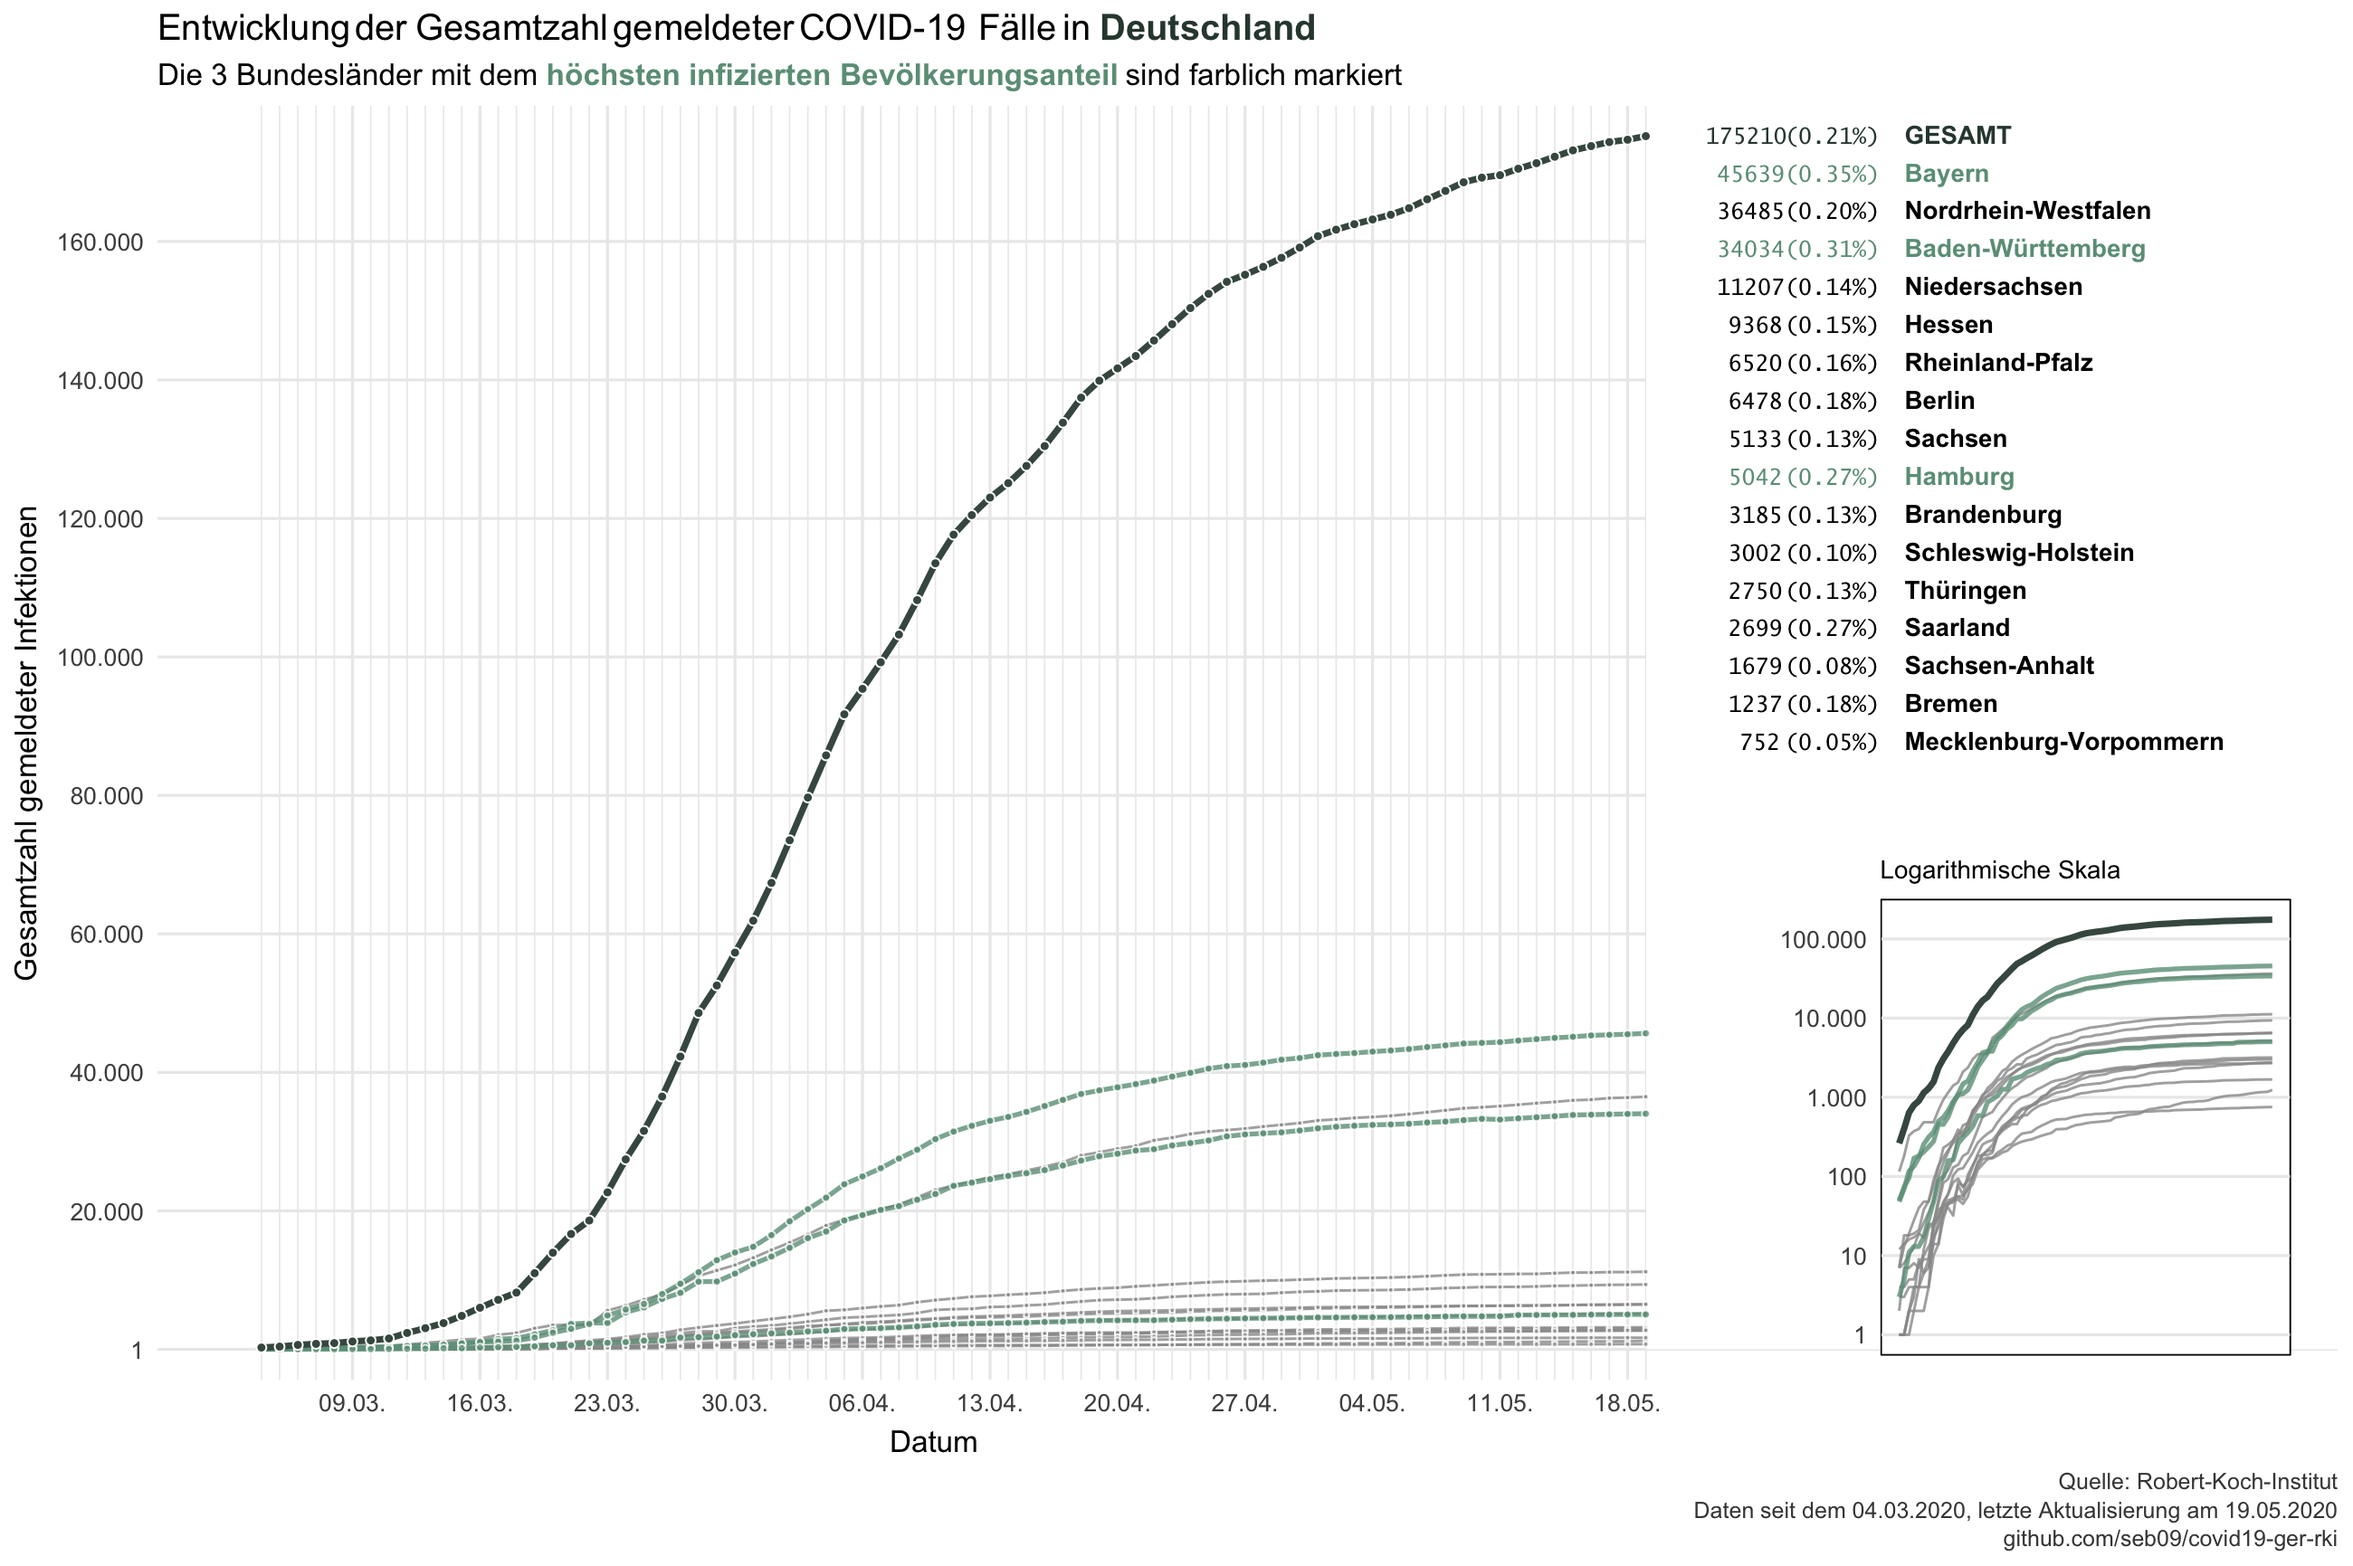
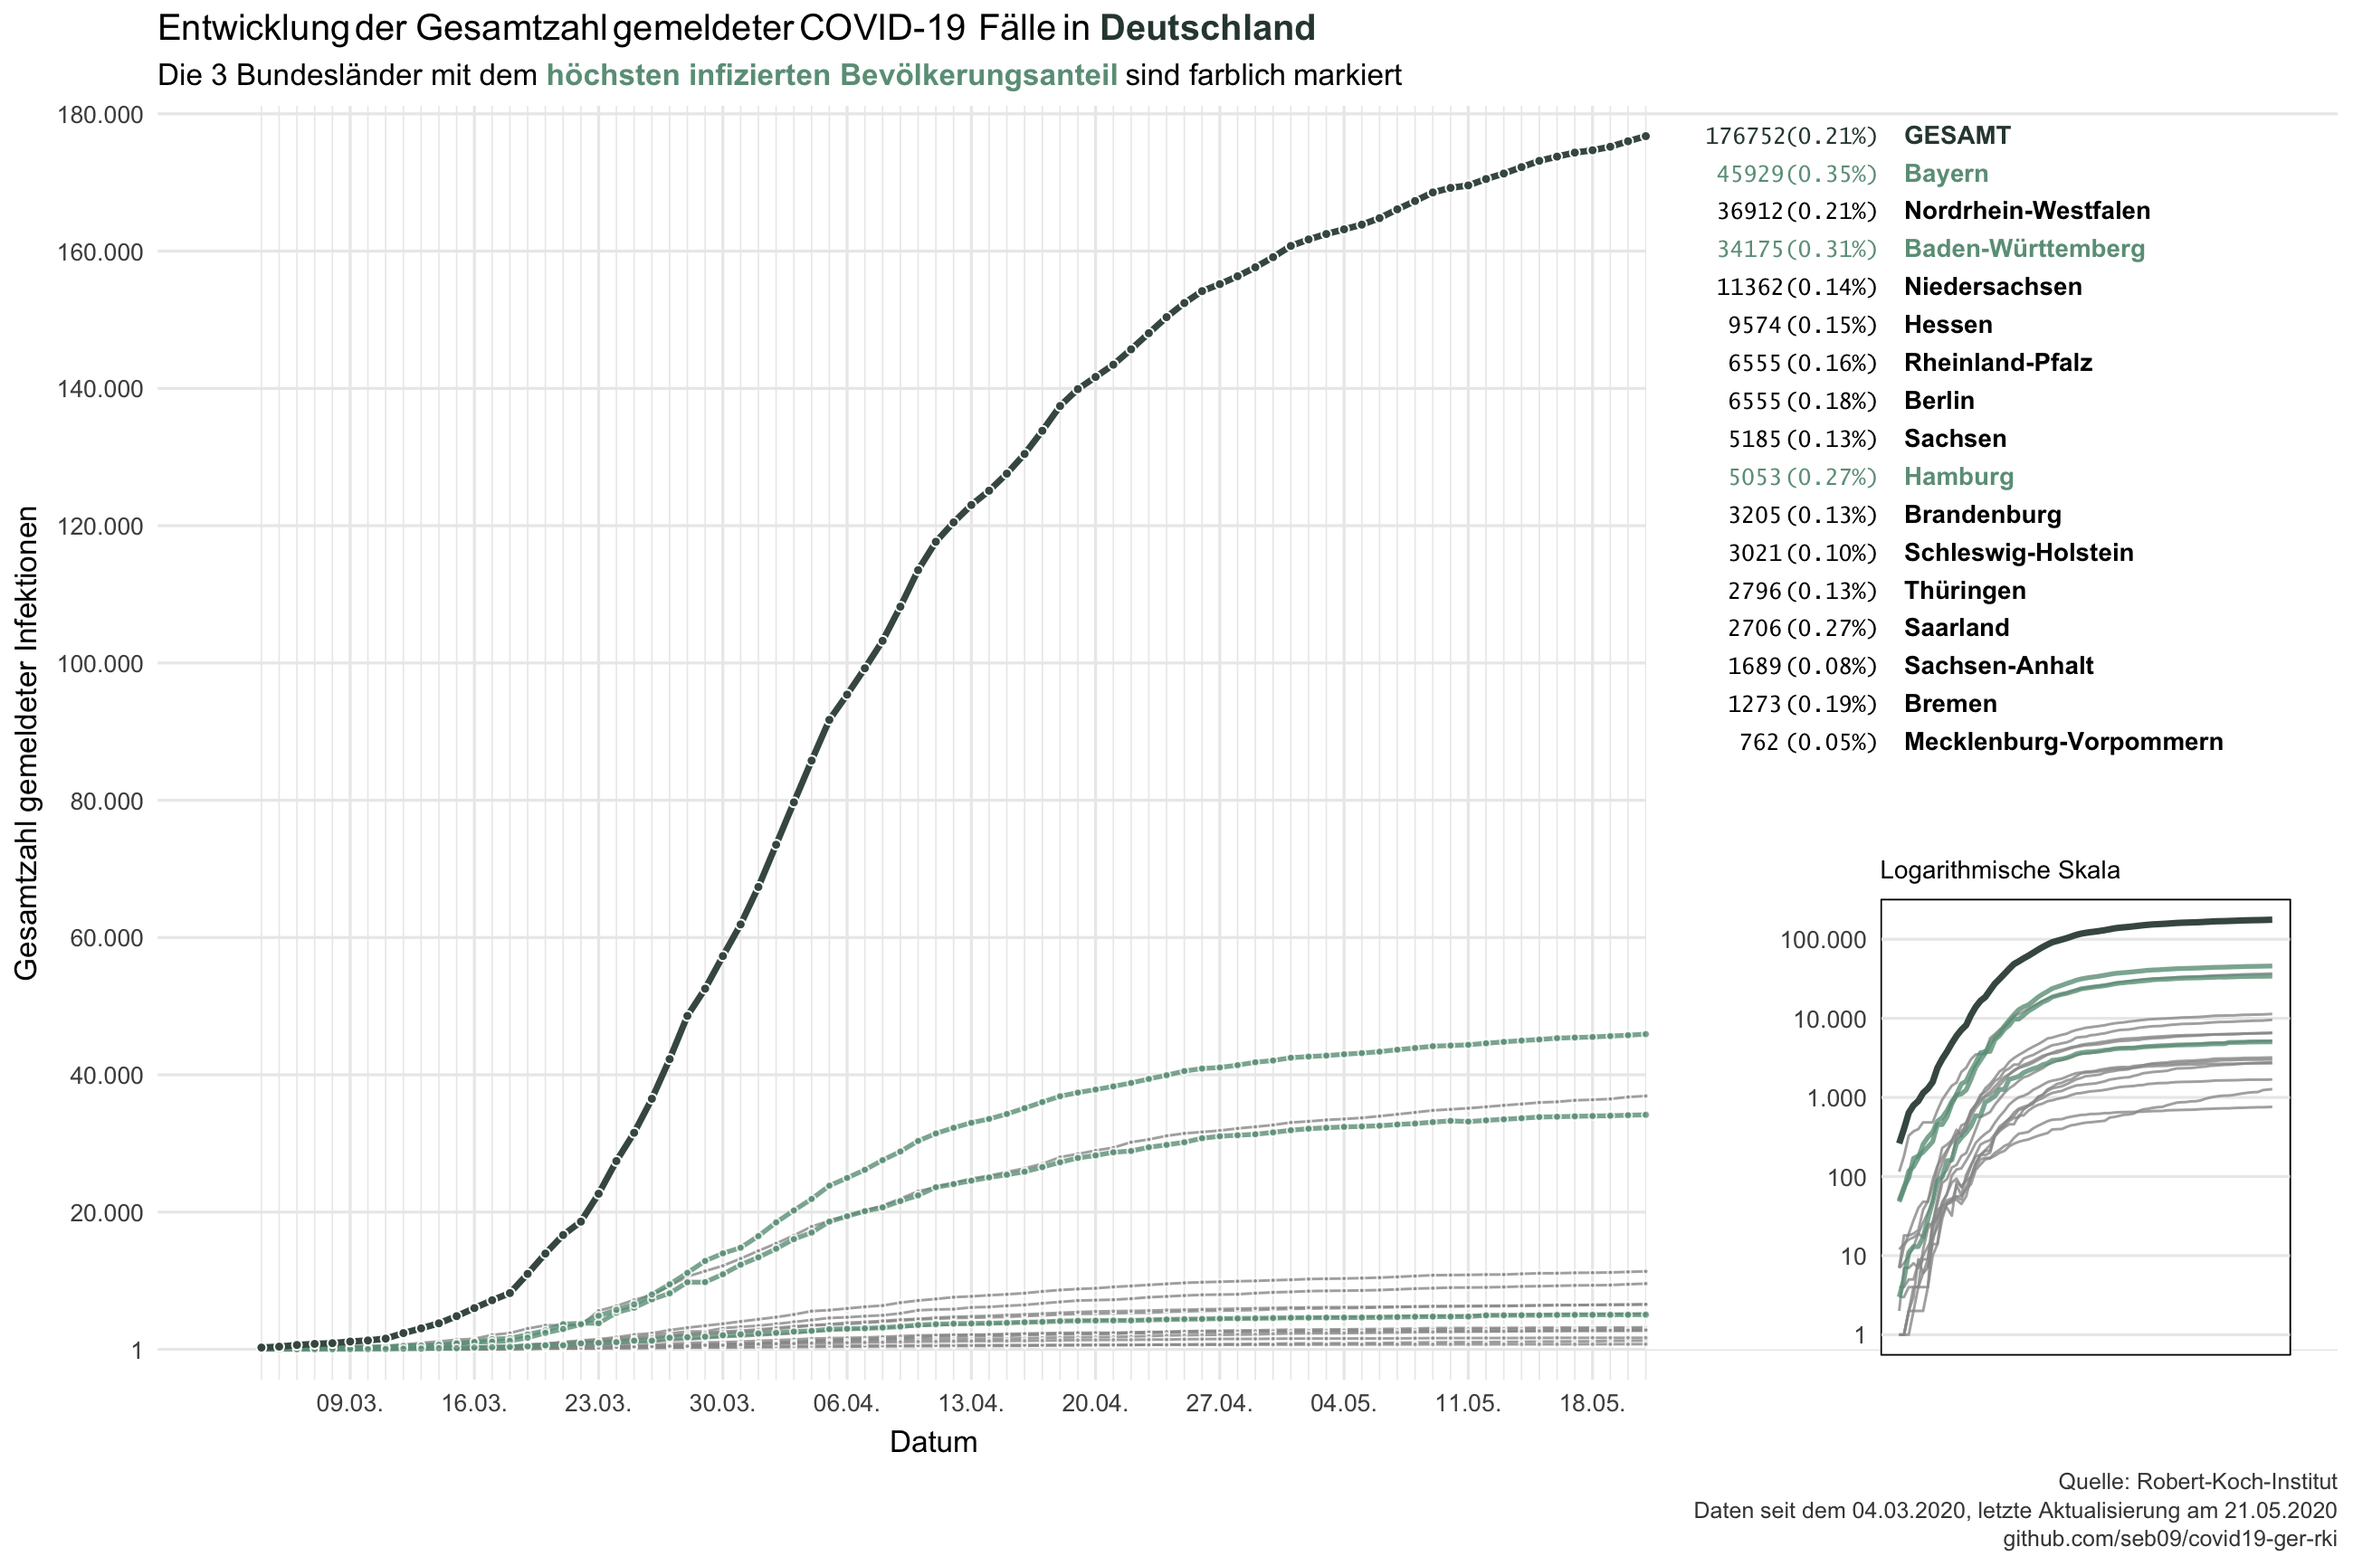
daily update 2020-05-21

diff --git a/README.md b/README.md
@@ -1,6 +1,6 @@
 Data from the Robert-Koch-Institut on COVID-19 in Germany
 ================
-Last update: 2020-05-19
+Last update: 2020-05-21
 
 This repository contains data on reported COVID-19 cases in Germany and
 its federal states that is published daily by the Robert-Koch-Institut
@@ -14,26 +14,26 @@ corona_rki %>%
   print(n = 16)
 ```
 
-    ## # A tibble: 1,226 x 6
+    ## # A tibble: 1,258 x 6
     ##    Datum      Bundesland      Fallzahl Todeszahl Fallzahl_neu Todeszahl_neu
     ##    <date>     <chr>              <dbl>     <dbl>        <dbl>         <dbl>
-    ##  1 2020-05-19 Baden-Württemb…    34034      1653           34             1
-    ##  2 2020-05-19 Bayern             45639      2314          132            27
-    ##  3 2020-05-19 Berlin              6478       182           20             2
-    ##  4 2020-05-19 Brandenburg         3185       150           13             1
-    ##  5 2020-05-19 Bremen              1237        38           66             0
-    ##  6 2020-05-19 Hamburg             5042       232            5             0
-    ##  7 2020-05-19 Hessen              9368       442           31             3
-    ##  8 2020-05-19 Mecklenburg-Vo…      752        20            0             0
-    ##  9 2020-05-19 Niedersachsen      11207       548           40             3
-    ## 10 2020-05-19 Nordrhein-West…    36485      1525          120            13
-    ## 11 2020-05-19 Rheinland-Pfalz     6520       222           30             5
-    ## 12 2020-05-19 Saarland            2699       154            3             5
-    ## 13 2020-05-19 Sachsen             5133       198            8             2
-    ## 14 2020-05-19 Sachsen-Anhalt      1679        54            1             0
-    ## 15 2020-05-19 Schleswig-Hols…     3002       128            0             2
-    ## 16 2020-05-19 Thüringen           2750       147           10             8
-    ## # … with 1,210 more rows
+    ##  1 2020-05-21 Baden-Württemb…    34175      1680           60             8
+    ##  2 2020-05-21 Bayern             45929      2348          163             9
+    ##  3 2020-05-21 Berlin              6555       186           48             0
+    ##  4 2020-05-21 Brandenburg         3205       151           12             0
+    ##  5 2020-05-21 Bremen              1273        39           17             1
+    ##  6 2020-05-21 Hamburg             5053       239           11             3
+    ##  7 2020-05-21 Hessen              9574       451           91             5
+    ##  8 2020-05-21 Mecklenburg-Vo…      762        20            7             0
+    ##  9 2020-05-21 Niedersachsen      11362       566           74             9
+    ## 10 2020-05-21 Nordrhein-West…    36912      1546          146             9
+    ## 11 2020-05-21 Rheinland-Pfalz     6555       224           26             2
+    ## 12 2020-05-21 Saarland            2706       157            3             3
+    ## 13 2020-05-21 Sachsen             5185       201           35             3
+    ## 14 2020-05-21 Sachsen-Anhalt      1689        54            9             0
+    ## 15 2020-05-21 Schleswig-Hols…     3021       134            7             3
+    ## 16 2020-05-21 Thüringen           2796       151           36             2
+    ## # … with 1,242 more rows
 
 Data is downloaded each day at 11am from the [website of the
 RKI](https://www.rki.de/DE/Content/InfAZ/N/Neuartiges_Coronavirus/Fallzahlen.html)
